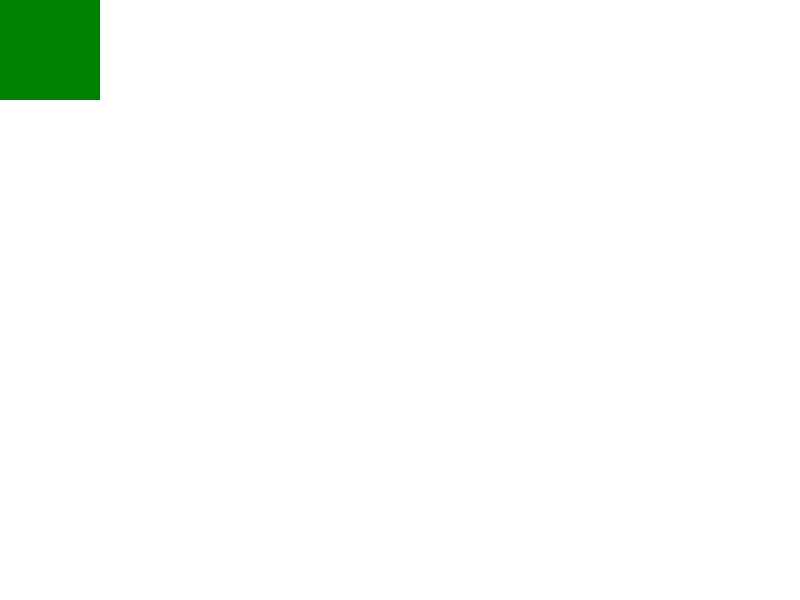
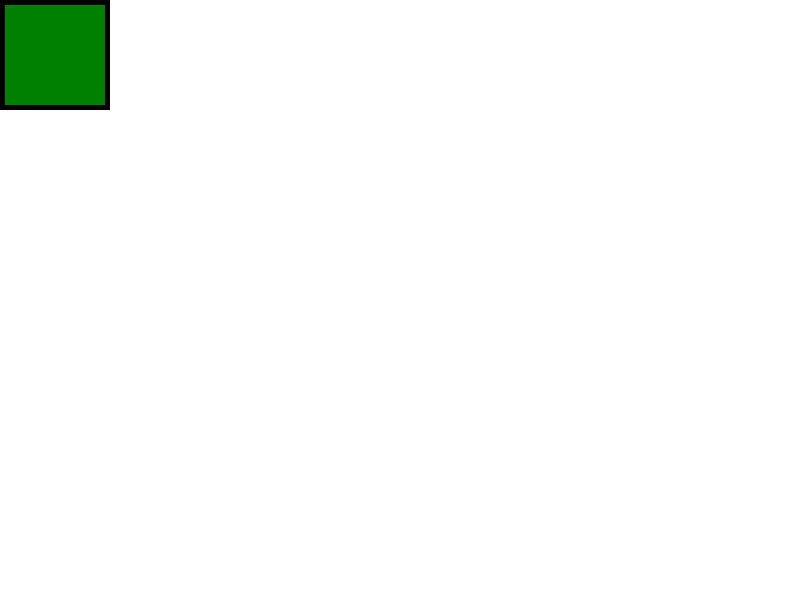
Reviewed by Simon Fraser.
https://bugs.webkit.org/show_bug.cgi?id=25383
        Changing SVG size via JS does not update CSS width/height

        Add an ugly hack to fix CSS width/height updates from JS.

        We can't easily call setAttribute when width/height changes
        as that would cause infinite recursion (as we'd try to set
        the animation storage from the attributes)

        For now, when we get notification that JS changed width/height
        we copy what parseMappedAttribute does and update the CSS values as well.

        A better fix for this would be:
        https://bugs.webkit.org/show_bug.cgi?id=25383

        * svg/SVGSVGElement.cpp:
        (WebCore::updateCSSForAttribute):
        (WebCore::SVGSVGElement::svgAttributeChanged):

Identifier: 34904@main
git-svn-id: https://svn.webkit.org/repository/webkit/trunk@42854 268f45cc-cd09-0410-ab3c-d52691b4dbfc

Changed region(s): [[0.0, 0.0, 0.1562, 0.21]]

diff --git a/WebCore/svg/SVGSVGElement.cpp b/WebCore/svg/SVGSVGElement.cpp
@@ -269,15 +269,34 @@ void SVGSVGElement::parseMappedAttribute(MappedAttribute* attr)
     }
 }
 
+// This hack will not handle the case where we're setting a width/height
+// on a root <svg> via svg.width.baseValue = when it has none.
+static void updateCSSForAttribute(SVGSVGElement* element, const QualifiedName& attrName, CSSPropertyID property, const SVGLength& value)
+{
+    Attribute* attribute = element->attributes(false)->getAttributeItem(attrName);
+    if (!attribute || !attribute->isMappedAttribute())
+        return;
+    element->addCSSProperty(static_cast<MappedAttribute*>(attribute), property, value.valueAsString());
+}
+
 void SVGSVGElement::svgAttributeChanged(const QualifiedName& attrName)
 {
     SVGStyledElement::svgAttributeChanged(attrName);
+
+    // FIXME: Ugly, ugly hack to around that parseMappedAttribute is not called
+    // when svg.width.baseValue = 100 is evaluated.
+    // Thus the CSS length value for width is not updated, and width() calcWidth()
+    // calculations on RenderSVGRoot will be wrong.
+    // https://bugs.webkit.org/show_bug.cgi?id=25387
+    if (attrName == SVGNames::widthAttr)
+        updateCSSForAttribute(this, attrName, CSSPropertyWidth, widthBaseValue());
+    else if (attrName == SVGNames::heightAttr)
+        updateCSSForAttribute(this, attrName, CSSPropertyHeight, heightBaseValue());
 
     if (!renderer())
         return;
 
     if (attrName == SVGNames::xAttr || attrName == SVGNames::yAttr ||
-        attrName == SVGNames::widthAttr || attrName == SVGNames::heightAttr ||
         SVGTests::isKnownAttribute(attrName) ||
         SVGLangSpace::isKnownAttribute(attrName) ||
         SVGExternalResourcesRequired::isKnownAttribute(attrName) ||
